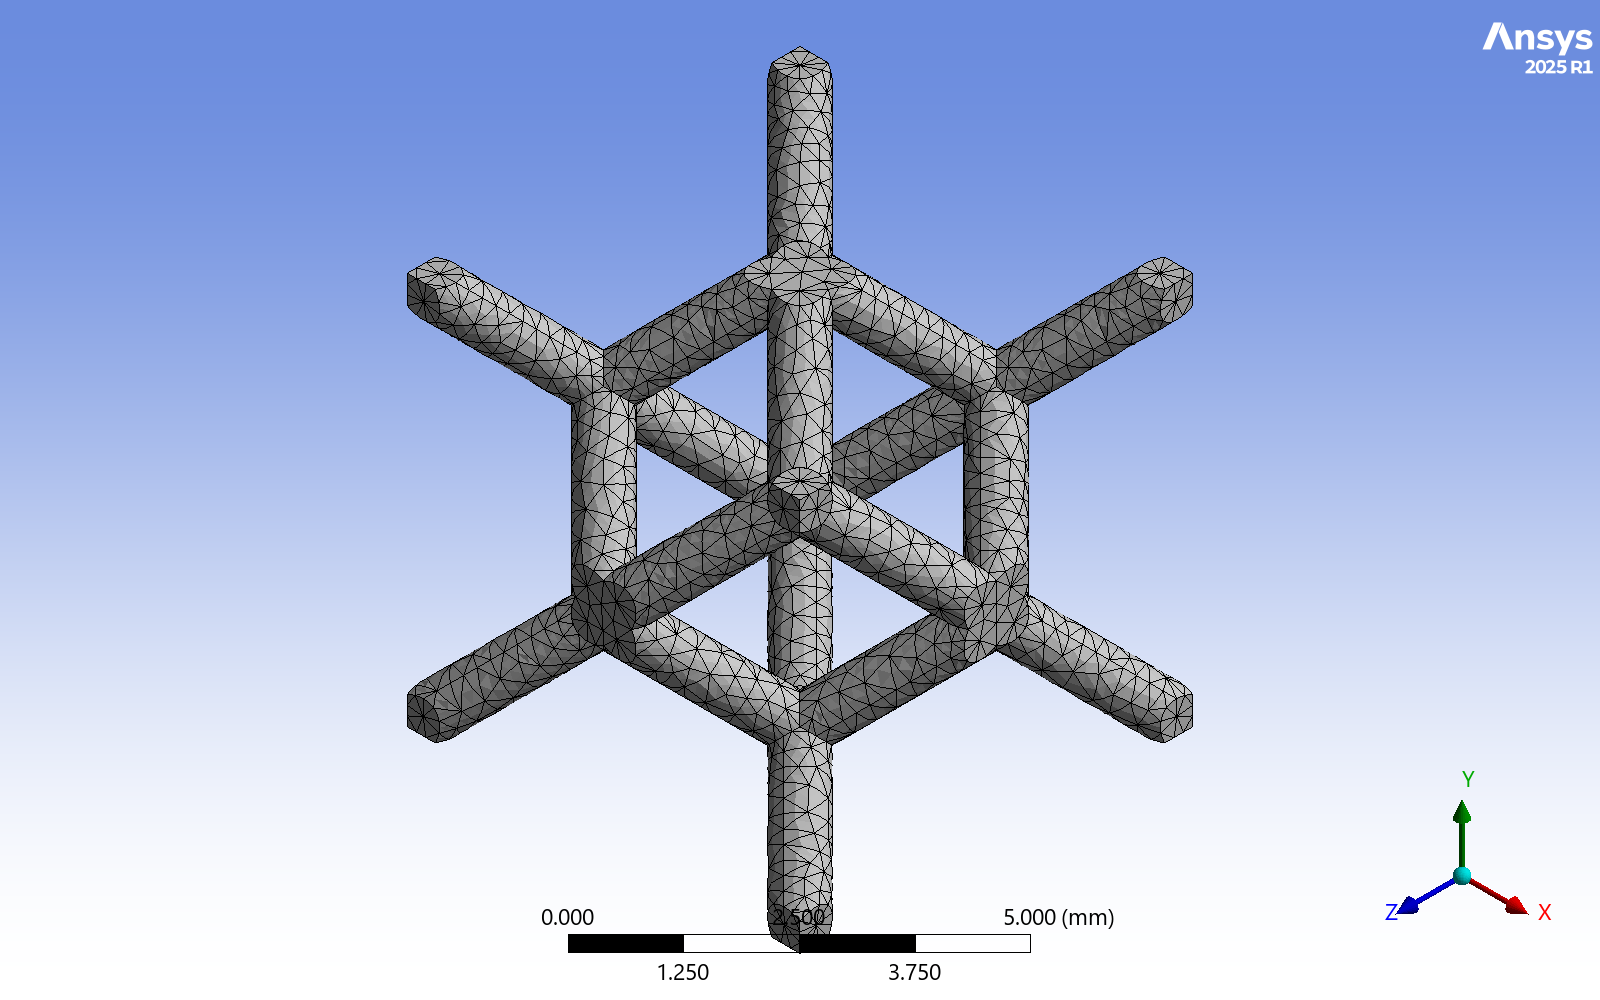
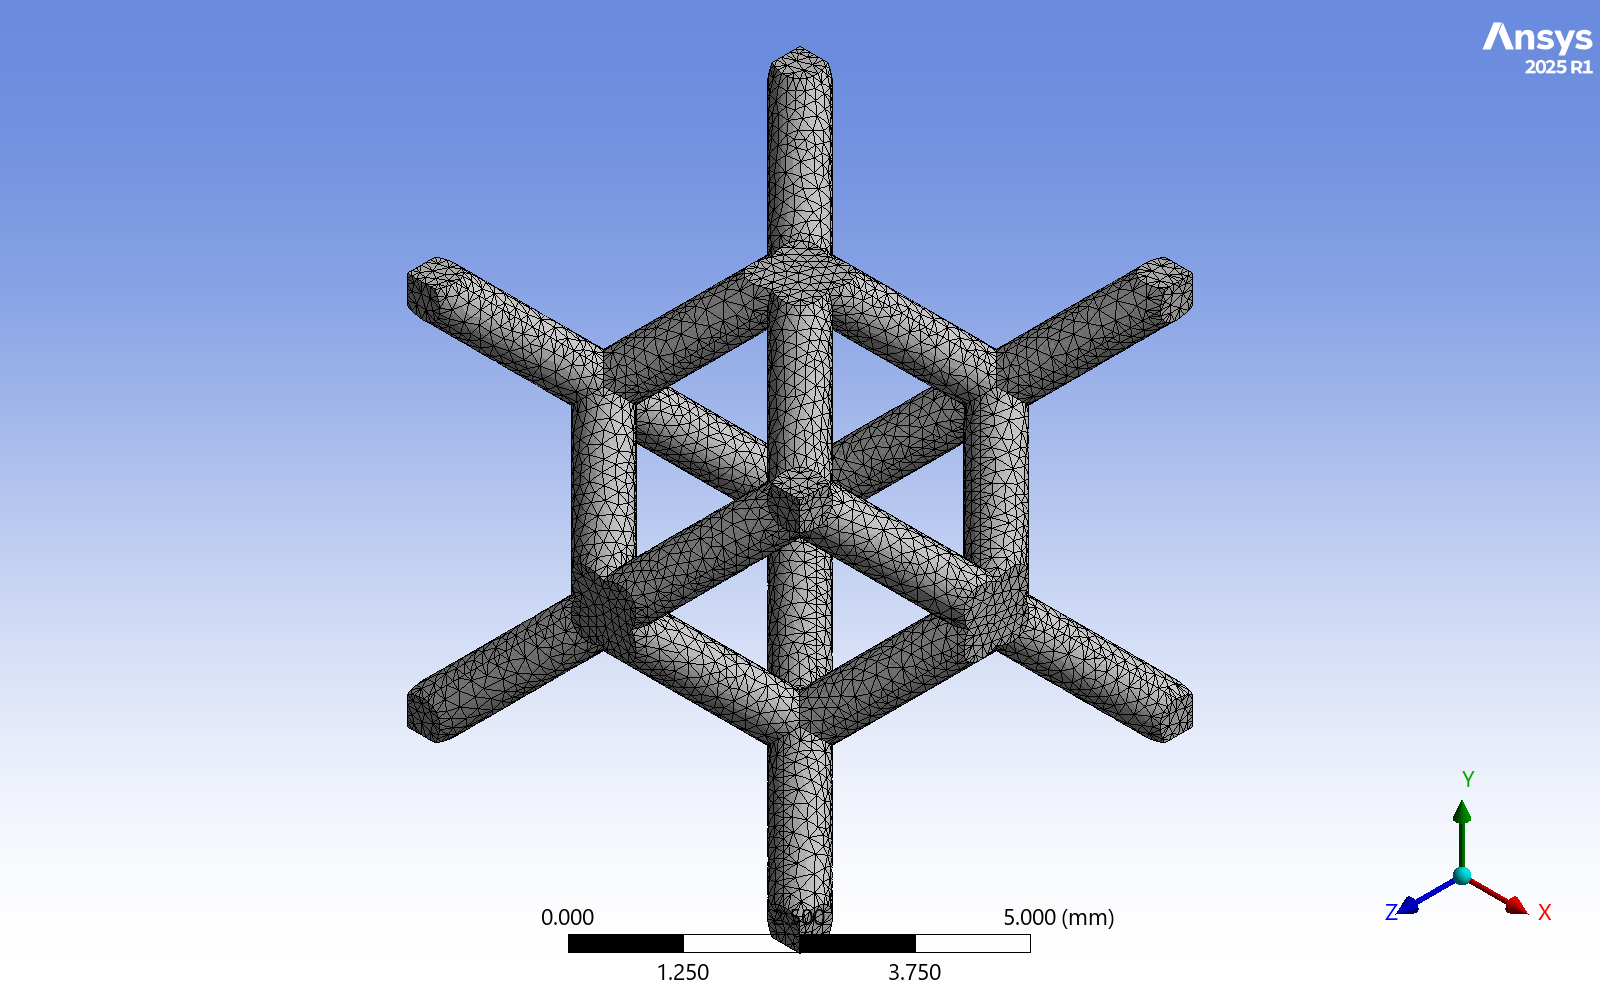
Mesh-method investigation (patch-independent works for BCCZ_Topo); heavy-case batch

Changed region(s): [[0.25, 0.062, 0.75, 0.93]]

diff --git a/8DesignRun/AM_Project3_EIGHT_CASES_Claude_Package/scripts/mech_run_pi.py b/8DesignRun/AM_Project3_EIGHT_CASES_Claude_Package/scripts/mech_run_pi.py
@@ -1,0 +1,223 @@
+# IronPython executed INSIDE Mechanical (via model.SendCommand). CFG dict is prepended by the WB journal.
+import os, sys, traceback, math
+def L(m):
+    try:
+        f = open(CFG['logfile'], 'a'); f.write(str(m) + "\n"); f.close()
+    except:
+        pass
+def Q(v, u): return Quantity(v, u)
+m = ExtAPI.DataModel.Project.Model
+OUT = CFG['simdir']
+SS = CFG['shotdir']
+for d in (OUT, SS):
+    if not os.path.isdir(d): os.makedirs(d)
+def W(name, rows, header):
+    f = open(os.path.join(OUT, name), 'w'); f.write(header + "\n")
+    for r in rows: f.write(",".join([str(x) for x in r]) + "\n")
+    f.close()
+def shot(name, note=''):
+    p = os.path.join(SS, name)
+    try:
+        ExtAPI.Graphics.Camera.SetFit()
+        st = Ansys.Mechanical.Graphics.GraphicsImageExportSettings()
+        st.Resolution = Ansys.Mechanical.DataModel.Enums.GraphicsResolutionType.EnhancedResolution
+        st.Width = 1600; st.Height = 1000; st.CurrentGraphicsDisplay = False
+        ExtAPI.Graphics.ExportImage(p, Ansys.Mechanical.DataModel.Enums.GraphicsImageExportFormat.PNG, st)
+        ok = os.path.exists(p) and os.path.getsize(p) > 0
+        L("SHOT %s ok=%s %s" % (name, ok, note)); return ok
+    except Exception as e:
+        L("SHOT FAIL %s: %s" % (name, e)); return False
+def table(res, label):
+    try:
+        pd = res.PlotData
+        cols = [str(c) for c in pd.Keys]
+        data = {}
+        for c in cols: data[c] = [x for x in pd[c]]
+        L("TABLE %s cols=%s n=%d" % (label, cols, len(data[cols[0]]) if cols else 0))
+        return cols, data
+    except Exception as e:
+        L("TABLE FAIL %s: %s" % (label, traceback.format_exc())); return None, None
+def write_hist(nm, c, d, tag):
+    if c is None: return
+    rows = []
+    n = len(d[c[0]])
+    for i in range(n): rows.append([d[k][i] for k in c])
+    W("raw_%s_%s.csv" % (nm, tag), rows, ",".join([str(k) for k in c]))
+
+try:
+    geo = m.Geometry
+    parts = [p for p in geo.Children]
+    bodies = [b for p in parts for b in p.Children]
+    L("bodies=%d" % len(bodies))
+    for b in bodies: b.Material = CFG['material']
+    Lx = geo.LengthX.Value; Ly = geo.LengthY.Value; Lz = geo.LengthZ.Value
+    L("LengthXYZ %s %s %s unit=%s" % (Lx, Ly, Lz, geo.LengthX.Unit))
+    vol = sum([b.Volume.Value for b in bodies])
+    L("volume %s %s" % (vol, bodies[0].Volume.Unit))
+    L("material assigned: " + ",".join([str(b.Material) for b in bodies]))
+    allfaces = []; xs = [1e30, 1e30, 1e30, -1e30, -1e30, -1e30]
+    for b_ in bodies:
+        gb_ = b_.GetGeoBody(); bb_ = list(gb_.GetBoundingBox())
+        for k in range(3):
+            xs[k] = min(xs[k], bb_[k]); xs[k + 3] = max(xs[k + 3], bb_[k + 3])
+        for f in gb_.Faces: allfaces.append(f)
+    L("bbox raw " + str(xs) + " nfaces=%d" % len(allfaces))
+    ext = [xs[3] - xs[0], xs[4] - xs[1], xs[5] - xs[2]]
+    scale = Lx / ext[0] if ext[0] > 0 else 1000.0
+    L("scale coord->mm = %s ; extents mm = %s" % (scale, [e * scale for e in ext]))
+    tol = 0.02
+    lo = [xs[k] * scale for k in range(3)]; hi = [xs[k + 3] * scale for k in range(3)]
+    dims = [hi[k] - lo[k] for k in range(3)]
+    cap = {}
+    for ax_ in range(3):
+        topf = []; botf = []; ta = 0.0; ba = 0.0
+        for f in allfaces:
+            try:
+                c = f.Centroid; z = c[ax_] * scale
+                fb = list(f.GetBoundingBox())
+                if abs(fb[ax_ + 3] - fb[ax_]) * scale >= tol: continue
+                ar = f.Area * scale * scale
+                if abs(z - hi[ax_]) < tol: topf.append(f.Id); ta += ar
+                elif abs(z - lo[ax_]) < tol: botf.append(f.Id); ba += ar
+            except Exception as e:
+                L("face err %s" % e)
+        cap[ax_] = (topf, botf, ta, ba)
+        L("axis %s: top faces=%d area=%.4f | bottom faces=%d area=%.4f" % ("XYZ"[ax_], len(topf), ta, len(botf), ba))
+    forced = CFG.get('axis', 'auto')
+    if forced in ('X', 'Y', 'Z'): AX = "XYZ".index(forced)
+    else:
+        ar_ = [min(cap[k][2], cap[k][3]) for k in range(3)]
+        best_ = max(ar_)
+        AX = [k for k in (2, 1, 0) if ar_[k] >= 0.98 * best_][0]   # ties (symmetric cells) -> prefer Z, then Y, then X
+        L("axis areas (min of top/bottom) X,Y,Z = %s ; selected %s" % (ar_, "XYZ"[AX]))
+    top, bot = cap[AX][0], cap[AX][1]
+    oth = [k for k in range(3) if k != AX]
+    Lx, Ly, Lz = dims[oth[0]], dims[oth[1]], dims[AX]   # Lx,Ly = footprint dims, Lz = height along compression axis
+    zmin = lo[AX]; zmax = hi[AX]
+    L("COMPRESSION AXIS = %s (forced=%s); footprint %.4f x %.4f mm; H0=%.4f mm" % ("XYZ"[AX], forced, Lx, Ly, Lz))
+    gb = None
+    W("geometry_probe.csv", [[Lx, Ly, Lz, vol, len(top), len(bot), zmin, zmax, len(bodies), len(allfaces), AX, cap[AX][2], cap[AX][3], dims[0], dims[1], dims[2]]], "Lx_mm,Ly_mm,Lz_mm,volume_mm3,n_top_faces,n_bottom_faces,zmin,zmax,n_bodies,n_faces,axis_index,top_area_mm2,bottom_area_mm2,bboxX,bboxY,bboxZ")
+    if CFG.get('probe_only'):
+        raise SystemExit
+    def sel(ids):
+        s = ExtAPI.SelectionManager.CreateSelectionInfo(SelectionTypeEnum.GeometryEntities); s.Ids = ids; return s
+    an = m.Analyses[0]
+    nt = m.AddNamedSelection(); nt.Name = "TOP_FACES"; nt.Location = sel(top)
+    nb = m.AddNamedSelection(); nb.Name = "BOTTOM_FACES"; nb.Location = sel(bot)
+    fs = an.AddFixedSupport(); fs.Location = sel(bot); fs.Name = "Fixed Support (bottom)"
+    mode = CFG['mode']
+    if mode == 'force':
+        ld = an.AddForce(); ld.DefineBy = LoadDefineBy.Components; ld.Location = sel(top)
+        getattr(ld, 'XYZ'[AX] + 'Component').Output.DiscreteValues = [Q(-CFG['force_N'], 'N')]
+        ld.Name = "Top compressive force (-%s)" % "XYZ"[AX]
+    else:
+        ld = an.AddDisplacement(); ld.Location = sel(top); ld.Name = "Top displacement (-%s)" % "XYZ"[AX]
+        getattr(ld, 'XYZ'[AX] + 'Component').Output.DiscreteValues = [Q(-CFG['disp_mm'], 'mm')]
+    s = an.AnalysisSettings
+    s.NumberOfSteps = 1; s.CurrentStepNumber = 1
+    s.StepEndTime = Q(1, 'sec')
+    s.AutomaticTimeStepping = AutomaticTimeStepping.On
+    s.DefineBy = TimeStepDefineByType.Substeps
+    s.InitialSubsteps = CFG['init_sub']; s.MinimumSubsteps = CFG['init_sub']; s.MaximumSubsteps = CFG['max_sub']
+    s.LargeDeflection = True
+    try: s.NodalForces = OutputControlsNodalForcesType.Yes
+    except Exception as e: L("nodal forces opt: %s" % e)
+    sol = an.Solution
+    fr = sol.AddForceReaction(); fr.LocationMethod = LocationDefinitionMethod.BoundaryCondition; fr.BoundaryConditionSelection = fs; fr.Name = "Reaction Z (bottom support)"
+    dz = sol.AddDirectionalDeformation(); dz.NormalOrientation = [NormalOrientationType.XAxis, NormalOrientationType.YAxis, NormalOrientationType.ZAxis][AX]; dz.Name = "Directional Deformation (compression axis)"
+    td = sol.AddTotalDeformation()
+    es = sol.AddEquivalentStress()
+    ee = sol.AddEquivalentTotalStrain()
+    eps = sol.AddEquivalentPlasticStrain()
+    summary = []
+    if CFG.get('mesh_method'):
+        try:
+            meth = m.Mesh.AddAutomaticMethod()
+            sb = ExtAPI.SelectionManager.CreateSelectionInfo(SelectionTypeEnum.GeometryEntities); sb.Ids = [b_.GetGeoBody().Id for b_ in bodies]
+            meth.Location = sb
+            meth.Method = MethodType.AllTriAllTet
+            meth.Algorithm = MeshMethodAlgorithm.PatchIndependent
+            L("mesh method: tetra patch-independent set")
+        except Exception as e: L("mesh method FAIL %s" % traceback.format_exc())
+    nlev = len(CFG['mesh_sizes'])
+    for lvl in range(nlev):
+        size = CFG['mesh_sizes'][lvl]
+        tag = "L%d" % (lvl + 1)
+        mesh = m.Mesh
+        mesh.ElementSize = Q(size, 'mm')
+        try: mesh.ElementOrder = ElementOrder.Quadratic
+        except Exception as e: L("order: %s" % e)
+        import time as _t
+        t0 = _t.time()
+        for pn, pv in CFG.get('mesh_props', []):
+            try: setattr(mesh, pn, eval(pv))
+            except Exception as e: L("mesh prop %s fail %s" % (pn, e))
+        mesh.GenerateMesh()
+        L("mesh time %.1f s" % (_t.time() - t0))
+        nn = mesh.Nodes; ne = mesh.Elements
+        L("LEVEL %d size=%s nodes=%s elements=%s" % (lvl + 1, size, nn, ne))
+        try:
+            mesh.Activate(); ExtAPI.Graphics.Camera.SetSpecificViewOrientation(ViewOrientationType.Iso)
+        except Exception as e: L("mesh activate %s" % e)
+        shot("05_mesh_%s_size%s.png" % (tag, size), "mesh")
+        if lvl == nlev - 1: shot("05_mesh.png", "mesh final")
+        an.Solve(True)
+        L("solve returned; status=%s" % str(an.Solution.Status))
+        sol.EvaluateAllResults()
+        if lvl == 0 and CFG.get('diag'):
+            try:
+                tdta = es.TabularData
+                L("DIAG TabularData type %s attrs %s" % (type(tdta), [a for a in dir(tdta) if not a.startswith('_')]))
+                try: L("DIAG Columns %s" % str([c for c in tdta.Columns]))
+                except Exception as e: L("diag cols err %s" % e)
+                try: L("DIAG Rows/Count %s %s" % (tdta.Count, tdta.RowCount))
+                except Exception as e: L("diag count err %s" % e)
+                try: L("DIAG sol attrs %s" % str([a for a in dir(sol) if not a.startswith('_')]))
+                except Exception as e: L("diag sol %s" % e)
+                try: L("DIAG an.Solution.TimeStepList %s" % str(dir(an)))
+                except Exception as e: pass
+                L("DIAG PlotData attrs: " + str([a for a in dir(es.PlotData) if not a.startswith('_')]))
+                L("DIAG fr attrs: " + str([a for a in dir(fr) if not a.startswith('_')]))
+                L("DIAG es attrs: " + str([a for a in dir(es) if not a.startswith('_')]))
+            except Exception as e: L("diag err %s" % e)
+        try:
+            N = CFG['init_sub']
+            rows = []
+            for i in range(0, N + 1):
+                t = float(i) / N
+                try:
+                    if i == 0:
+                        rows.append([0.0, 0.0, 0.0, 0.0, 0.0, 0.0, 0.0]); continue
+                    for r_ in (es, ee, dz, fr, td):
+                        r_.DisplayTime = Q(t, 'sec')
+                    es.EvaluateAllResults()
+                    rows.append([t, es.Maximum.Value, es.Average.Value, ee.Maximum.Value, dz.Minimum.Value, getattr(fr, 'XYZ'[AX] + 'Axis').Value, td.Maximum.Value])
+                except Exception as e:
+                    L("history point t=%s failed: %s" % (t, e))
+            W("raw_history_%s.csv" % tag, rows, "Time,EqvStress_max_MPa,EqvStress_avg_MPa,EqvTotalStrain_max,DirDefZ_min_mm,ReactionZ_N,TotalDef_max_mm")
+            L("history rows %d last=%s" % (len(rows), rows[-1]))
+        except Exception as e: L("history loop fail %s" % traceback.format_exc())
+        summary.append([lvl + 1, size, nn, ne, str(an.Solution.Status)])
+        if lvl == nlev - 1:
+            for r_ in (es, ee, dz, fr, td, eps): r_.DisplayTime = Q(1.0, 'sec')
+            sol.EvaluateAllResults()
+            for res, fn in ((td, "07_total_deformation.png"), (dz, "08_directional_deformation_z.png"), (es, "09_equivalent_stress_von_mises.png"), (ee, "10_equivalent_total_strain.png"), (eps, "10b_equivalent_plastic_strain.png")):
+                try:
+                    res.Activate(); ExtAPI.Graphics.Camera.SetSpecificViewOrientation(ViewOrientationType.Iso); shot(fn, res.Name)
+                except Exception as e: L("contour %s: %s" % (fn, e))
+            try:
+                ld.Activate(); shot("06_fixed_support_and_loading.png", "loading")
+            except Exception as e: L("loading shot %s" % e)
+            try:
+                geo.Activate(); shot("03_ansys_geometry.png", "geometry")
+                bodies[0].Activate(); shot("04_tough2000_assignment.png", "body details")
+            except Exception as e: L("geo shot %s" % e)
+            try:
+                fr.Activate(); shot("11_mechanical_stress_strain_chart.png", "reaction chart")
+            except Exception as e: L("chart shot %s" % e)
+    W("mesh_metrics.csv", summary, "level,element_size_mm,nodes,elements,solution_status")
+    L("DONE")
+except SystemExit:
+    L("probe only done")
+except Exception as e:
+    L("ERR " + traceback.format_exc())

diff --git a/8DesignRun/AM_Project3_EIGHT_CASES_Claude_Package/scripts/mech_names.py b/8DesignRun/AM_Project3_EIGHT_CASES_Claude_Package/scripts/mech_names.py
@@ -1,0 +1,14 @@
+out = []
+try:
+    out.append("MethodType: " + str([a for a in dir(MethodType) if not a.startswith('_')]))
+except Exception as e: out.append("MethodType err %s" % e)
+for nm in ("MeshMethodAlgorithm", "MethodAlgorithm", "MeshMethodType", "AlgorithmType", "TetrahedronAlgorithm", "MeshAlgorithm"):
+    try: out.append(nm + ": " + str([a for a in dir(eval(nm)) if not a.startswith('_')]))
+    except Exception as e: out.append(nm + " err")
+try:
+    mm = ExtAPI.DataModel.Project.Model.Mesh
+    out.append("MeshProps: " + str([a for a in dir(mm) if not a.startswith('_') and any(k in a for k in ("Capture", "Curv", "Prox", "Size", "Adapt", "Span", "Smooth", "Transition", "Growth", "Defeature", "Relevance"))]))
+    meth = mm.AddAutomaticMethod()
+    out.append("MethodProps: " + str([a for a in dir(meth) if not a.startswith('_')]))
+except Exception as e: out.append("err %s" % e)
+open(CFG['simdir'] + "_names.txt", "w").write("\n".join(out))
